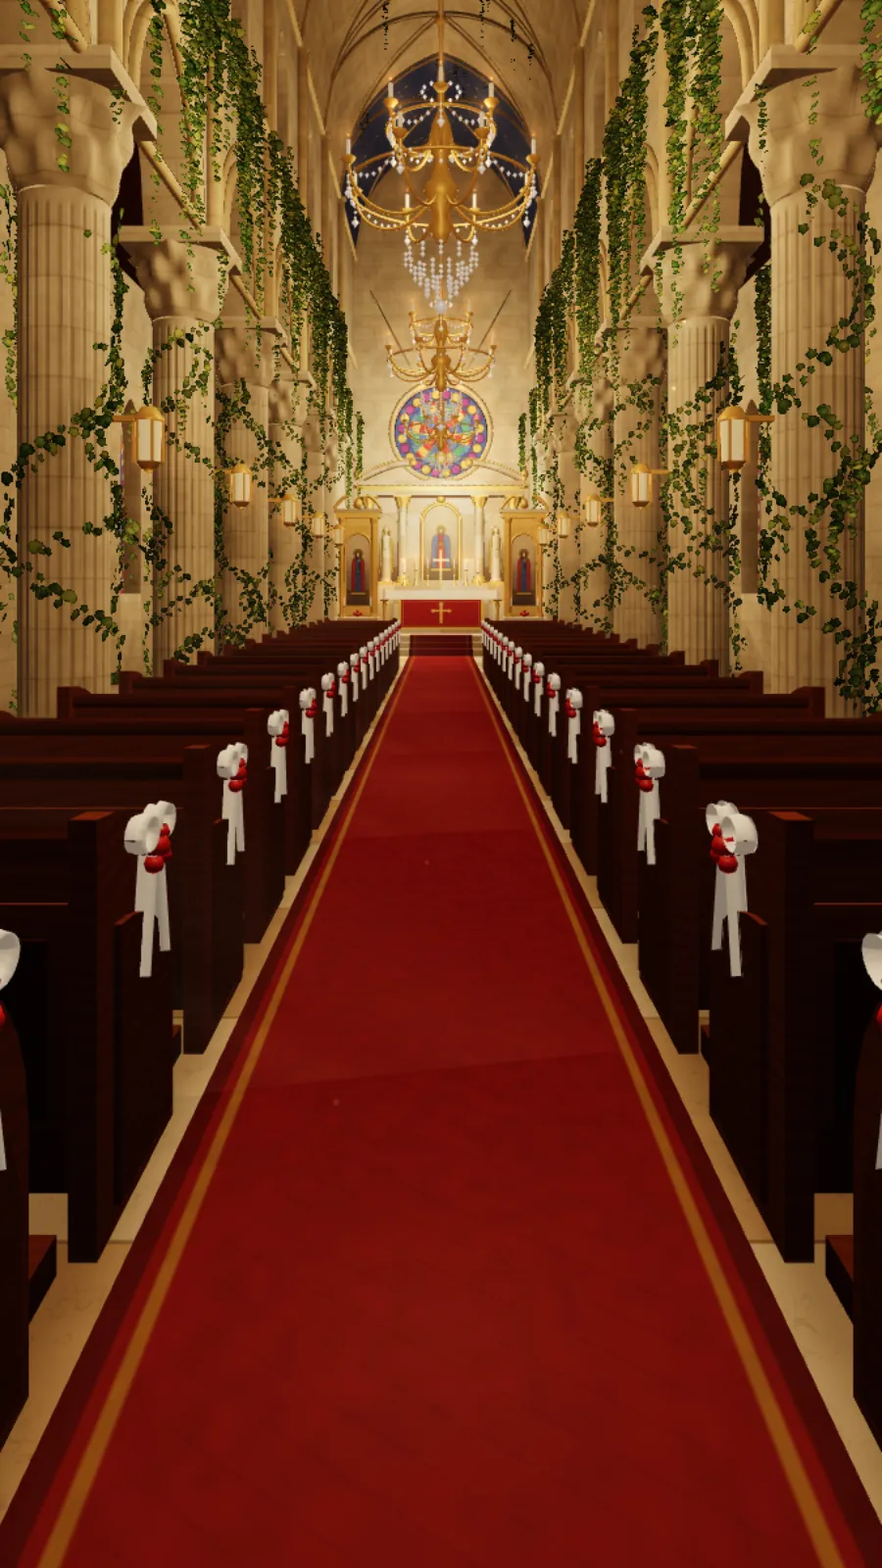
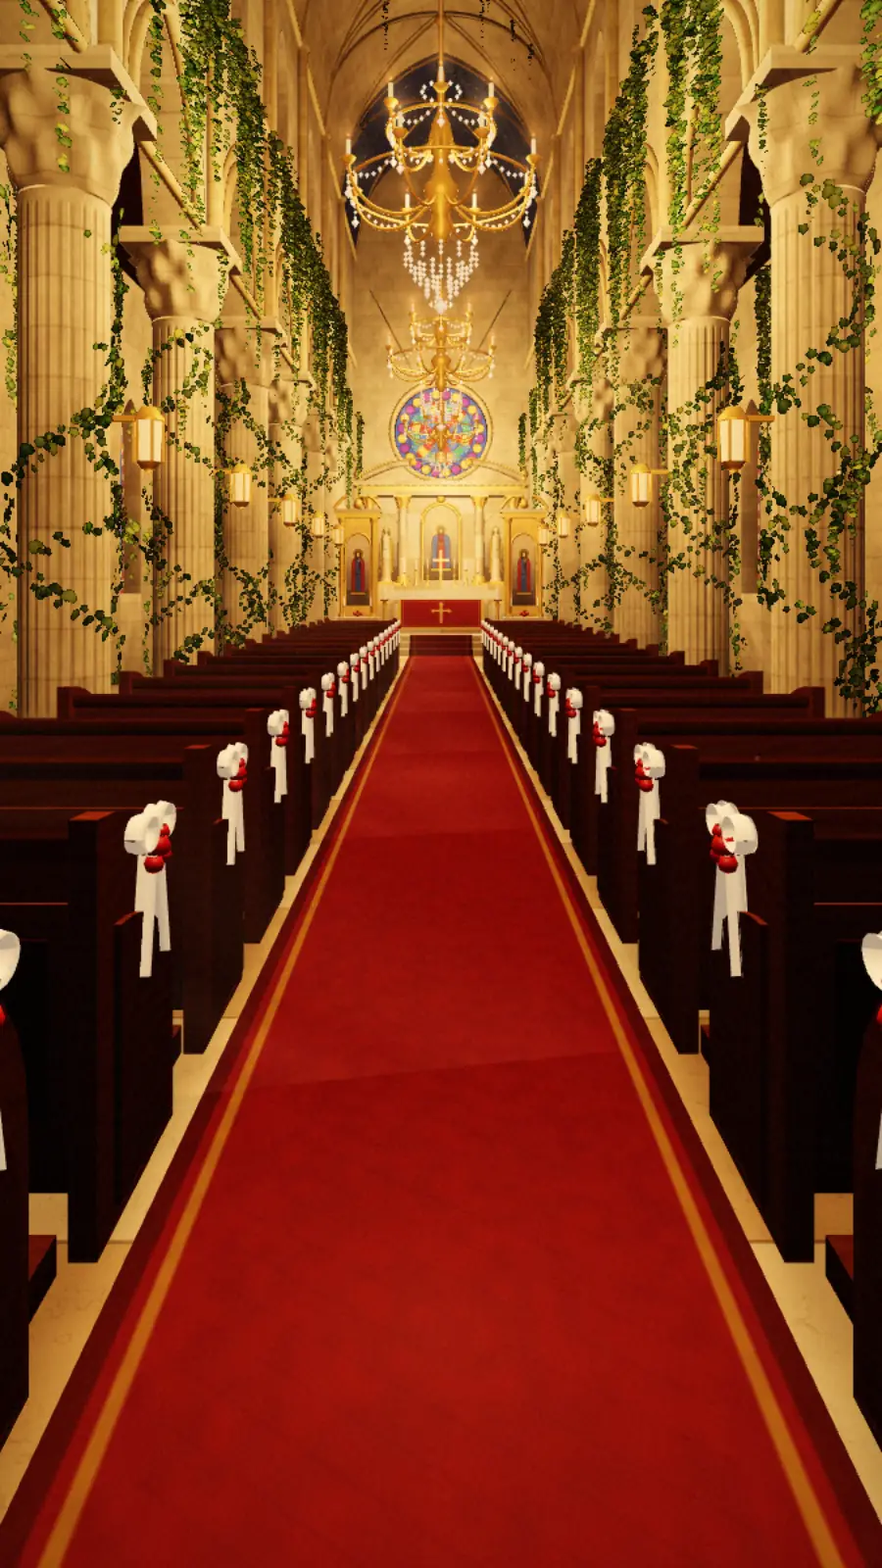
A cinematic church and a golden ending
The church: one more full-screen pass after the church is drawn, a glow
around everything brighter than the stone (flames, chandelier crystals,
the windows), a warm grade with golden highlights and warm-brown
shadows, a gentle vignette and fine grain. The ambient light is lower and
the upper walls and vault fall into shadow, so the church is lit by its
candles, chandeliers and windows; a warmer haze for depth. The sanctuary
lamp, the altar's own light and the rose window's glow are turned down
so the altar is not washed out. Skipped on a device already struggling.
Thin cinema bars frame the walk: they slide in as the church wakes and
glide away as the photograph appears.

The ending: a golden light flood instead of a white one; the photograph
in the church's gold with a soft vignette; the names in gold foil with a
slow light passing across; a flourish drawn in under the names; a fine
double gold frame with flourishes in the bottom corners.

Still pictures and the link preview re-rendered with the new look.

Claude-Session: https://claude.ai/code/session_01C6WdL5bVH3JZbrkZ3ou3Pp

diff --git a/assets/js/nave.js b/assets/js/nave.js
@@ -96,7 +96,7 @@
     "  if (tx.a < .4) discard;",
     "  vec3 base = uAlb.rgb * tx.rgb;",
     // soft light from above, a warm bounce from below, and the windows' daylight
-    "  float hy = 1. - .45 * smoothstep(2., 13., vP.y);",
+    "  float hy = 1. - .62 * smoothstep(1.4, 10., vP.y);",
   "  vec3 lit = (uAmb * (.66 + .34 * n.y) + uAmb * vec3(.5, .34, .22) * max(-n.y, 0.) * .6) * ao * hy;",
     "  lit += uSunC * (max(dot(n, uSunD), 0.) * .8 + .2) * ao;",
     "  vec3 spec = vec3(0.);",
@@ -178,6 +178,36 @@
     "  c += texture2D(uT, vUV + vec2(0., uH.y * 2.)) + texture2D(uT, vUV + vec2(0., -uH.y * 2.));",
     "  c += (texture2D(uT, vUV + uH) + texture2D(uT, vUV - uH) + texture2D(uT, vUV + vec2(uH.x, -uH.y)) + texture2D(uT, vUV - vec2(uH.x, -uH.y))) * 2.;",
     "  gl_FragColor = c / 12.;",
+    "}"].join("\n");
+  // the glow: only what is brighter than the stone passes, softly kneed
+  var FS_BRIGHT = [
+    "precision mediump float;",
+    "uniform sampler2D uT; uniform vec2 uH; varying vec2 vUV;",
+    "void main(){",
+    "  vec3 c = (texture2D(uT, vUV).rgb * 4. + texture2D(uT, vUV - uH).rgb + texture2D(uT, vUV + uH).rgb + texture2D(uT, vUV + vec2(uH.x, -uH.y)).rgb + texture2D(uT, vUV - vec2(uH.x, -uH.y)).rgb) / 8.;",
+    "  float l = dot(c, vec3(.2126, .7152, .0722)), k = smoothstep(.86, 1., l);",
+    "  gl_FragColor = vec4(c * k, 1.);",
+    "}"].join("\n");
+  // the film: glow added back, a warm grade (deep shadows, golden highlights),
+  // a gentle vignette and a whisper of grain
+  var FS_FILM = [
+    "precision mediump float;",
+    "uniform sampler2D uT, uU, uV; uniform vec2 uR; uniform float uS, uG;",
+    "varying vec2 vUV;",
+    "void main(){",
+    "  vec3 c = texture2D(uT, vUV).rgb;",
+    "  vec3 g = texture2D(uU, vUV).rgb * .45 + texture2D(uV, vUV).rgb * .75;",
+    "  c += g * vec3(1., .82, .58) * uG;",
+    "  c = (1. - exp(-c * 1.5)) / (1. - exp(-1.5));",                                                 // a soft shoulder: glow never clips or flips
+    "  float l = dot(c, vec3(.2126, .7152, .0722));",
+    "  c = mix(c, c * vec3(1.06, .98, .86), smoothstep(.35, .9, l));",          // warm highlights
+    "  c = mix(c * vec3(.92, .86, .84), c, smoothstep(.0, .35, l));",            // deeper, warm-brown shadows
+    "  c = clamp(c, 0., 1.); c = c * c * (3. - 2. * c) * .45 + c * .55;",                              // a soft S-curve
+    "  vec2 q = vUV - .5; q.x *= uR.x / uR.y;",
+    "  c *= 1. - .42 * smoothstep(.35, 1.0, length(q));",                        // vignette
+    "  float n = fract(sin(dot(vUV * uR + uS, vec2(12.9898, 78.233))) * 43758.5453);",
+    "  c += (n - .5) * .035;",                                                    // grain
+    "  gl_FragColor = vec4(c, 1.);",
     "}"].join("\n");
   // the soft frame over the sharp one: a little soft (uT) or softer (uU),
   // so focus deepens gradually rather than one blur fading in over another
@@ -847,11 +877,11 @@
       lathe(gold, x, gy, zTable + .5, [[0, 0], [.07, 0], [.07, .02], [.03, .05], [.02, hgt * .5], [.035, hgt * .55], [.015, hgt * .6], [.015, hgt - .03], [.04, hgt - .02], [.04, hgt]], 12);
       lathe(wax, x, gy + hgt, zTable + .5, [[.02, 0], [.02, .22], [0, .23]], 8);
       lights.push({ kind: "flame", p: [x, gy + hgt + .27, zTable + .48], s: .07, c: [1, .9, .7], a: 1, ph: Math.random() * 9, candle: zTable });
-      lights.push({ kind: "glow", p: [x, gy + hgt + .27, zTable + .47], s: .9, c: [1, .62, .3], a: .25, ph: Math.random() * 9, candle: zTable });
+      lights.push({ kind: "glow", p: [x, gy + hgt + .27, zTable + .47], s: .6, c: [1, .62, .3], a: .16, ph: Math.random() * 9, candle: zTable });
     });
     box(gold, -.03, gy, zTable + .48, .03, gy + .92, zTable + .54);
     box(gold, -.21, gy + .62, zTable + .48, .21, gy + .68, zTable + .54);
-    points.push({ p: [0, gy + .7, zTable - .3], c: [1, .66, .36], i: 1.4, k: .35, candle: zTable });
+    points.push({ p: [0, gy + .7, zTable - .3], c: [1, .66, .36], i: .95, k: .35, candle: zTable });
 
     // white linen over the altar, falling a little over the frontal's top
     box(mesh("linen"), -1.42, platY + 1.08, zTable - .07, 1.42, platY + 1.095, zTable + .69);
@@ -1142,9 +1172,9 @@
     });
 
     // the sanctuary is the brightest place; the rose window glows into it
-    points.push({ p: [0, 4.2, 25.2], c: [1, .74, .48], i: 2.4, k: .06, still: true });
+    points.push({ p: [0, 4.2, 25.2], c: [1, .72, .45], i: 1.05, k: .08, still: true });
     points.push({ p: [0, RC[1], ZE - .6], c: [1, .7, .45], i: 1.2, k: .12, still: true, rose: true });
-    points.push({ p: [0, 2.4, ZE - 2.2], c: [1, .72, .42], i: .9, k: .5, candle: ZE - 2 });
+    points.push({ p: [0, 2.4, ZE - 2.2], c: [1, .72, .42], i: .45, k: .5, candle: ZE - 2 });
 
     // light: daylight beams from the left clerestory and aisle windows, and soft halos at the glass
     for (var bb = 0; bb < M.piers - 1; bb++) {
@@ -1158,8 +1188,8 @@
         lights.push({ kind: "glow", p: [s * (X + .1), COURSE + 1.2, zc2], s: 2.2, c: [1, .8, .55], a: .05, still: true, win: true });
       });
     }
-    lights.push({ kind: "glow", p: [0, RC[1], ZE - .1], s: 7.5, c: [1, .66, .36], a: .12, ph: 0, still: true, fog: .01, rose: true });
-    lights.push({ kind: "pool", p: [0, platY + .01, 25.6], s: 6, c: [1, .7, .4], a: .1, ph: 0, still: true });
+    lights.push({ kind: "glow", p: [0, RC[1], ZE - .1], s: 7.5, c: [1, .66, .36], a: .05, ph: 0, still: true, fog: .01, rose: true });
+    lights.push({ kind: "pool", p: [0, platY + .01, 25.6], s: 6, c: [1, .7, .4], a: .05, ph: 0, still: true });
 
     // dust: random points in a box ahead of the camera, wrapped as we walk
     moteData = new Float32Array(NM * 4);
@@ -1183,7 +1213,7 @@
     ["niche", [1, 1, 1], "niche", 2, 1, .2, 20, .25, 0],
     ["frontal", [1, 1, 1], "frontal", 2, 1, .15, 16, .05, 0],
     ["gilt", [1.05, .8, .48], "stone", 1, .5, .7, 26, .03, .6],
-    ["linen", [1.1, 1.08, 1.02], "white", 0, 1, .15, 12, .12, 0],
+    ["linen", [.98, .96, .92], "white", 0, 1, .15, 12, .03, 0],
     ["statue", [1.12, 1.09, 1.04], "marble", 1, 1 / 1.2, .35, 40, .04, 0],
     ["tulle", [1.12, 1.12, 1.1], "white", 0, 1, .25, 12, .18, 0],
     ["rosebud", [.68, .07, .1], "white", 0, 1, .3, 18, .04, 0],
@@ -1262,12 +1292,12 @@
       LC[q * 3] = l0 ? l0.c[0] * l0.i * lit0 : 0; LC[q * 3 + 1] = l0 ? l0.c[1] * l0.i * lit0 : 0; LC[q * 3 + 2] = l0 ? l0.c[2] * l0.i * lit0 : 0;
     }
     gl.uniform4fv(UB.LP, LP); gl.uniform3fv(UB.LC, LC);
-    var amb = .035 + .085 * win;
+    var amb = .016 + .045 * win;
     gl.uniform3f(UB.Amb, amb * 1.0, amb * .84, amb * .64);
     gl.uniform3f(UB.SunD, .48, .74, .2);
-    gl.uniform3f(UB.SunC, .1 * win, .075 * win, .05 * win);
-    gl.uniform3f(UB.Haze, .07, .05, .036);
-    gl.uniform1f(UB.Fog, .022);
+    gl.uniform3f(UB.SunC, .065 * win, .048 * win, .032 * win);
+    gl.uniform3f(UB.Haze, .085, .058, .036);
+    gl.uniform1f(UB.Fog, .03);
     gl.uniform1f(UB.Expo, P.expo);
     var grade = BRIGHT * (1 - DIM * P.dim);
     gl.uniform2f(UB.Grade, SAT + (1 - SAT) * P.bloom, grade + (1 - grade) * P.bloom);
@@ -1358,15 +1388,52 @@
     /* focus: the church goes soft behind the words in front of it. Skipped
        only on a device already at its lowest resolution and still struggling. */
     if (post && P.focus > .003 && slowFrames < 4 && sizePost()) soften(Math.min(1, P.focus));
+    /* the film: glow around every flame and window, a warm grade, vignette and grain */
+    if (post && slowFrames < 4 && sizePost()) film(time);
+  }
+  function film(time) {
+    var L = post.lv;
+    gl.disable(gl.DEPTH_TEST); gl.depthMask(false); gl.disable(gl.BLEND);
+    gl.bindTexture(gl.TEXTURE_2D, post.copy.t);
+    gl.copyTexSubImage2D(gl.TEXTURE_2D, 0, 0, 0, 0, 0, W, H);
+    gl.bindBuffer(gl.ARRAY_BUFFER, quadBuf);
+    function pass(pr, src, dst, spread) {
+      var w = dst ? dst.w : W, h = dst ? dst.h : H;
+      gl.bindFramebuffer(gl.FRAMEBUFFER, dst ? dst.fb : null);
+      gl.viewport(0, 0, w, h);
+      gl.useProgram(pr.p);
+      gl.enableVertexAttribArray(pr.aQ);
+      gl.vertexAttribPointer(pr.aQ, 2, gl.FLOAT, false, 0, 0);
+      gl.bindTexture(gl.TEXTURE_2D, src.t);
+      gl.uniform1i(pr.T, 0);
+      if (pr.H) gl.uniform2f(pr.H, spread * .5 / w, spread * .5 / h);
+      gl.drawArrays(gl.TRIANGLE_STRIP, 0, 4);
+    }
+    pass(post.bright, post.copy, L[0], 1);
+    pass(post.down, L[0], L[1], 1.5); pass(post.down, L[1], L[2], 2); pass(post.up, L[2], L[3], 2);
+    var f = post.film;
+    gl.useProgram(f.p);
+    gl.activeTexture(gl.TEXTURE1); gl.bindTexture(gl.TEXTURE_2D, L[1].t);
+    gl.activeTexture(gl.TEXTURE2); gl.bindTexture(gl.TEXTURE_2D, L[3].t);
+    gl.activeTexture(gl.TEXTURE0);
+    gl.uniform1i(f.U, 1); gl.uniform1i(f.V, 2);
+    gl.uniform2f(f.R, W, H); gl.uniform1f(f.S, (time % 997) * .37); gl.uniform1f(f.G, 1.1);
+    pass(f, post.copy, null, 0);
+    gl.activeTexture(gl.TEXTURE1); gl.bindTexture(gl.TEXTURE_2D, null);
+    gl.activeTexture(gl.TEXTURE2); gl.bindTexture(gl.TEXTURE_2D, null); gl.activeTexture(gl.TEXTURE0);
+    gl.disableVertexAttribArray(f.aQ);
+    gl.depthMask(true);
+    boundTex = null;
   }
 
   /* ------------------------------------------------------------- focus */
   function setupPost() {
-    try { post = { down: compile(VS_F, FS_DOWN), up: compile(VS_F, FS_UP), comp: compile(VS_F, FS_COMP), w: 0, h: 0, lv: [] }; }
+    try { post = { down: compile(VS_F, FS_DOWN), up: compile(VS_F, FS_UP), comp: compile(VS_F, FS_COMP), bright: compile(VS_F, FS_BRIGHT), film: compile(VS_F, FS_FILM), w: 0, h: 0, lv: [] }; }
     catch (e) { post = null; return; }
-    ["down", "up", "comp"].forEach(function (n) {
+    ["down", "up", "comp", "bright", "film"].forEach(function (n) {
       var p = post[n];
-      post[n] = { p: p, aQ: gl.getAttribLocation(p, "aQ"), T: gl.getUniformLocation(p, "uT"), U: gl.getUniformLocation(p, "uU"), H: gl.getUniformLocation(p, "uH"), A: gl.getUniformLocation(p, "uA"), M: gl.getUniformLocation(p, "uM") };
+      post[n] = { p: p, aQ: gl.getAttribLocation(p, "aQ"), T: gl.getUniformLocation(p, "uT"), U: gl.getUniformLocation(p, "uU"), H: gl.getUniformLocation(p, "uH"), A: gl.getUniformLocation(p, "uA"), M: gl.getUniformLocation(p, "uM"),
+        V: gl.getUniformLocation(p, "uV"), R: gl.getUniformLocation(p, "uR"), S: gl.getUniformLocation(p, "uS"), G: gl.getUniformLocation(p, "uG") };
     });
   }
   function plainTex(w, h, fmt) {

diff --git a/assets/css/styles.css b/assets/css/styles.css
@@ -203,8 +203,8 @@ h1, h2, h3, p, .invite__lines p, .verse__text { text-wrap: balance; }
 .nave > * { position: absolute; }
 .nave__gl { inset: 0; width: 100%; height: 100%; display: block; }
 .nave--still { background: var(--nave-black); }
-.nave--still::after { content: ""; position: absolute; inset: 0; background: url("../images/nave/still-portrait.webp?v=20261102f") 50% 40% / cover no-repeat; }
-@media (min-aspect-ratio: 1/1) { .nave--still::after { background-image: url("../images/nave/still-landscape.webp?v=20261102f"); } }
+.nave--still::after { content: ""; position: absolute; inset: 0; background: url("../images/nave/still-portrait.webp?v=20261102g") 50% 40% / cover no-repeat; }
+@media (min-aspect-ratio: 1/1) { .nave--still::after { background-image: url("../images/nave/still-landscape.webp?v=20261102g"); } }
 .nave__vignette { inset: 0; z-index: 5; background: radial-gradient(130% 95% at 50% 42%, rgba(0, 0, 0, 0) 55%, rgba(0, 0, 0, .55) 100%); }
 
 /* ======================================================= HERO (film) */
@@ -708,3 +708,38 @@ html:not(.journey) .nave { opacity: 1; }
 .still .music { background: rgba(14, 10, 7, .92); box-shadow: 0 4px 16px rgba(0, 0, 0, .45); }
 
 .journey .scroll-cue { display: none; }
+
+/* ============================================== cinema bars (journey only) */
+.cine-bars { display: none; }
+.journey .cine-bars { display: block; position: fixed; inset: 0; z-index: 1; pointer-events: none; }
+.cine-bars i { position: absolute; left: 0; right: 0; top: 0; height: 5.5vh; height: 5.5svh; background: var(--nave-black);
+  transform: translateY(calc(-100% * (1 - var(--b, 0)))); }
+.cine-bars i + i { top: auto; bottom: 0; transform: translateY(calc(100% * (1 - var(--b, 0)))); }
+
+/* ======================================= the ending: a golden curtain call */
+/* the photograph in the church's gold: a warm wash and a soft vignette */
+.finale__photo::before { content: ""; position: absolute; inset: 0; z-index: 1; pointer-events: none;
+  background: linear-gradient(180deg, rgba(240, 184, 102, .22), rgba(196, 136, 58, .26)); mix-blend-mode: soft-light; }
+.finale__photo::after { content: ""; position: absolute; inset: 0; z-index: 1; pointer-events: none;
+  background: radial-gradient(125% 95% at 50% 46%, rgba(0, 0, 0, 0) 52%, rgba(22, 12, 4, .6) 100%); }
+/* the names in gold foil, a slow light passing across them */
+.finale__names { color: var(--gold); text-shadow: none;
+  filter: drop-shadow(0 2px 12px rgba(0, 0, 0, .7)) drop-shadow(0 0 20px rgba(240, 184, 102, .3)); }
+.finale__names span {
+  background: linear-gradient(105deg, #A8772C 0%, #E3B866 28%, #FFF1CC 45%, #F3D08A 55%, #B8873A 78%, #8E6222 100%) 100% 0 / 240% 100% no-repeat;
+  -webkit-background-clip: text; background-clip: text; color: transparent; -webkit-text-fill-color: transparent;
+  animation: foil-names 7s ease-in-out 1s infinite; }
+@keyframes foil-names { 0%, 100% { background-position: 100% 0; } 50% { background-position: 0% 0; } }
+/* a flourish under the names, drawn in after them */
+.finale__flourish { display: block; width: min(62%, 15rem); height: auto; color: var(--gold); margin: -.15rem 0 .1rem;
+  filter: drop-shadow(0 0 6px rgba(240, 184, 102, .45)); }
+.finale__flourish path { stroke-dasharray: 1; stroke-dashoffset: calc(1 - var(--flo, 1)); }
+.finale__flourish circle { opacity: var(--flo, 1); }
+/* a fine double gold frame with corner flourishes, like the cards: the ending as a keepsake */
+.finale__frame { position: absolute; inset: 7px; z-index: 3; pointer-events: none; border: 1px solid rgba(217, 174, 98, .55); }
+.finale__frame::before { content: ""; position: absolute; inset: 5px; border: 1px solid rgba(217, 174, 98, .25); }
+.finale__frame::after { content: ""; position: absolute; inset: 9px;
+  background: linear-gradient(135deg, var(--foil-dark), var(--seal-hi) 35%, var(--foil-light) 55%, var(--seal-hi) 75%, var(--foil-dark));
+  /* flourishes in the bottom corners only: the Back and Music buttons sit in the top ones */
+  -webkit-mask: url("../icons/card-corner-bl.svg") 0 100% / 44px 44px no-repeat, url("../icons/card-corner-br.svg") 100% 100% / 44px 44px no-repeat;
+          mask: url("../icons/card-corner-bl.svg") 0 100% / 44px 44px no-repeat, url("../icons/card-corner-br.svg") 100% 100% / 44px 44px no-repeat; }

diff --git a/index.html b/index.html
@@ -17,7 +17,7 @@
   <meta property="og:title" content="Jibin Varghese &amp; Sofia John · 25 April 2027">
   <meta property="og:description" content="With the grace of God, we invite you to celebrate our wedding in Kozhikode, Kerala.">
   <meta property="og:url" content="https://jibin-varghese.github.io/jibin-weds-sofia/">
-  <meta property="og:image" content="https://jibin-varghese.github.io/jibin-weds-sofia/assets/images/og-image.jpg?v=6">
+  <meta property="og:image" content="https://jibin-varghese.github.io/jibin-weds-sofia/assets/images/og-image.jpg?v=7">
   <meta property="og:image:width" content="1200">
   <meta property="og:image:height" content="630">
   <meta name="twitter:card" content="summary_large_image">
@@ -34,14 +34,14 @@
   <link rel="preload" href="assets/fonts/jost-latin-500-normal.woff2" as="font" type="font/woff2" crossorigin>
   <!-- ?v=… makes every browser fetch fresh files after an update (phones can keep
        old copies for days). Change the number on every update, here and in config.js. -->
-  <link rel="stylesheet" href="assets/css/styles.css?v=20261102f">
+  <link rel="stylesheet" href="assets/css/styles.css?v=20261102g">
 
   <!-- the journey layout from the very first paint (main.js falls back to the still page if it can't run) -->
   <script>(function (r) { r.classList.replace('no-js', 'js'); if (!(window.matchMedia && matchMedia('(prefers-reduced-motion: reduce)').matches)) r.classList.add('journey'); })(document.documentElement);</script>
   <script src="config.js?v=20261024m" defer></script>
   <script src="assets/js/rsvp.js?v=20261024m" defer></script>
-  <script src="assets/js/nave.js?v=20261102f" defer></script>
-  <script src="assets/js/journey.js?v=20261102g" defer></script>
+  <script src="assets/js/nave.js?v=20261102g" defer></script>
+  <script src="assets/js/journey.js?v=20261102h" defer></script>
   <script src="assets/js/main.js?v=20261102c" defer></script>
 </head>
 <body>
@@ -160,6 +160,9 @@
 <!-- ============================================================ THE JOURNEY
      Each scene is placed and timed by assets/js/journey.js. Without
      JavaScript (or with "reduce motion") they simply stack as a page. -->
+<!-- thin cinema bars that frame the walk through the church (journey.js slides them in and out) -->
+<div class="cine-bars" aria-hidden="true"><i></i><i></i></div>
+
 <main class="scenes">
 
   <!-- 2 · the church wakes -->
@@ -297,10 +300,19 @@
   <section class="scene scene--finale" id="closing" aria-labelledby="close-names">
     <div class="finale__photo"><img data-art="closingPhoto" data-defer alt="A bride and groom embracing beneath a long arched corridor" decoding="async"></div>
     <canvas class="finale__dust" aria-hidden="true"></canvas>
+    <div class="finale__frame" aria-hidden="true"></div>
     <div class="finale__text">
       <h2 class="finale__names" id="close-names">
         <span data-bind="couple.groom">Jibin</span> <em>&amp;</em> <span data-bind="couple.bride">Sofia</span>
       </h2>
+      <svg class="finale__flourish" viewBox="0 0 240 24" aria-hidden="true">
+        <g fill="none" stroke="currentColor" stroke-linecap="round" stroke-linejoin="round">
+          <path pathLength="1" stroke-width="1" d="M6 12H92M148 12H234"/>
+          <path pathLength="1" stroke-width="1" d="M92 12c6 0 9-6 15-6s7 6 13 6M148 12c-6 0-9 6-15 6s-7-6-13-6"/>
+          <path pathLength="1" stroke-width="1.2" d="M120 3l7 9-7 9-7-9z"/>
+        </g>
+        <circle cx="6" cy="12" r="1.6" fill="currentColor"/><circle cx="234" cy="12" r="1.6" fill="currentColor"/>
+      </svg>
       <p class="finale__full"><span data-bind="couple.groomFull">Jibin Varghese</span> &amp; <span data-bind="couple.brideFull">Sofia John</span></p>
       <p class="finale__date" data-bind="weddingDateWords">25 April 2027</p>
       <p class="finale__quote" data-bind="closing.signoff"></p>

diff --git a/assets/js/journey.js b/assets/js/journey.js
@@ -258,6 +258,7 @@
     el.finale = doc.getElementById("closing");
     el.photo = doc.querySelector(".finale__photo img");
     el.flash = doc.querySelector(".flash");
+    el.bars = doc.querySelector(".cine-bars");
     el.progress = doc.querySelector(".progress span");
     el.mark = doc.querySelector(".topbar__mark");
     el.fin = {
@@ -265,6 +266,7 @@
       date: doc.querySelector(".finale__date"), quote: doc.querySelector(".finale__quote"),
       ref: doc.querySelector(".finale__ref"), candle: doc.querySelector(".finale__candle"),
       share: doc.querySelector(".finale__share"), plan: doc.querySelector(".finale__plan"),
+      flourish: doc.querySelector(".finale__flourish"), frame: doc.querySelector(".finale__frame"),
     };
     STATIONS.forEach(function (st) {
       var node = doc.getElementById(st.id);
@@ -426,6 +428,8 @@
     var fl = ss(16.3, 16.75, s) * (1 - ss(16.8, 17.5, s));   // the flood rises as the last words leave, not while they are read
     if (fl > 0 && !el.flashDrawn) paintFlash();
     setStyle(el.flash, "fl", "opacity", fl.toFixed(3));
+    // cinema bars: they slide in as the church wakes and glide away as the photograph appears
+    if (el.bars) setStyle(el.bars, "cb", "--b", (ss(1.0, 1.8, s) * (1 - ss(16.55, 17.3, s))).toFixed(3));
 
     /* 6 · together */
     setStyle(el.finale, "fn", "visibility", finaleOn ? "visible" : "hidden");
@@ -441,6 +445,8 @@
       var wr = ss(17.25, 18.0, s);
       setStyle(el.fin.names, "fnn", "--write", wr.toFixed(4));
       setStyle(el.fin.full, "ff", "opacity", ss(17.9, 18.25, s).toFixed(3));
+      if (el.fin.flourish) setStyle(el.fin.flourish, "flo", "--flo", ss(17.7, 18.3, s).toFixed(3));
+      if (el.fin.frame) setStyle(el.fin.frame, "frm", "opacity", ss(17.1, 17.9, s).toFixed(3));
       setStyle(el.fin.date, "fd", "opacity", ss(18.05, 18.4, s).toFixed(3));
       setStyle(el.fin.quote, "fq", "opacity", ss(18.45, 18.9, s).toFixed(3));
       setStyle(el.fin.ref, "fr", "opacity", ss(18.7, 19.0, s).toFixed(3));
@@ -456,7 +462,7 @@
     c.width = Math.max(1, Math.round(c.clientWidth / 2)); c.height = Math.max(1, Math.round(c.clientHeight / 2));
     var g = c.getContext("2d"), w = c.width, h = c.height;
     var rg = g.createRadialGradient(w / 2, h * .3, 0, w / 2, h * .3, Math.max(w, h) * .9);
-    rg.addColorStop(0, "#FFFDF7"); rg.addColorStop(.45, "#FFF2D8"); rg.addColorStop(1, "#F0CE98");
+    rg.addColorStop(0, "#FFF7E2"); rg.addColorStop(.4, "#F7D99C"); rg.addColorStop(1, "#C9963F");   // a golden light, not a white one
     g.fillStyle = rg; g.fillRect(0, 0, w, h);
     el.flashDrawn = true;
   }

diff --git a/README.md b/README.md
@@ -41,7 +41,7 @@ The page is one continuous scene, run by `assets/js/journey.js`. Scrolling doesn
 3. **Save the Date** hangs in the air of the aisle; you walk through it.
 4. **Stations:** invitation, engagement, ceremony, reception, countdown, RSVP. Each card stands in the aisle. As you reach it, the camera turns to it, it comes to the centre and holds while you read, then you walk on past. The verse appears between the invitation and the engagement, under the brightening rose window.
 5. **The light:** at the altar the rose window swells until light fills the screen ("Your presence would make our celebration complete").
-6. **Together:** out of the light, the couple photo, developing like a print: overexposed at first, so the two of you appear first against the glow. It drifts slowly closer, gold dust floats, the names write themselves, the verse and one candle appear.
+6. **Together:** out of a golden light, the couple photo in the church's gold (a warm wash and a soft vignette), developing like a print: overexposed at first, so the two of you appear first against the glow. It drifts slowly closer, gold dust floats, the names write themselves, the verse and one candle appear.
 
 **Chapters.** The page doesn't scroll. Guests tap **Continue** (or swipe once) to move to the next chapter, and a small **Back** returns; the journey then plays on its own: the camera glides, turns to the next card, the card settles and its words reveal. The opening (photo → church → Save the Date → invitation) and the ending play by themselves; the opening waits until the names, date and place are fully shown. The opening plays by itself (about 15 seconds from the seal to the invitation, most of it the church slowly lighting up; faster for returning guests): a line at the bottom ("Sit back — or tap to hurry it along") says so. A tap or swipe while the journey moves, the opening included, hurries it to the next stop. Save the Date and the verse hang in the aisle; each rests a moment and the camera walks through it.
 
@@ -59,6 +59,8 @@ Keep the stations and the camera points in step.
 - `PUSH`: how much closer the opening photo drifts while the names are read, and over how many seconds (one transform with the zoom as it fades).
 - **Test switch:** add `?off=` to the address to turn effects off one by one and compare on a phone: `?off=focus`, `?off=float`, `?off=lean`, `?off=push` (the opening photo's slow push), several at once (`?off=float,push`) or `?off=all`. Without it, everything is on.
 
+
+**The film look.** After the church is drawn, `nave.js` runs one more full-screen pass (`film()`): a glow around everything brighter than the stone (flames, crystals, the windows), a warm grade, a gentle vignette and fine grain. Its strength is `uG` in `film()`; the glow threshold is in `FS_BRIGHT`. A device that is already struggling skips it. Thin cinema bars (`.cine-bars`) frame the walk; they slide in as the church wakes and glide away as the photograph appears. At the end the names are in gold foil, a flourish draws itself in under them, and a fine double gold frame closes the picture.
 
 **Reduce motion / no JavaScript:** the same scenes stack as a calm page over a still, lit church.
 
